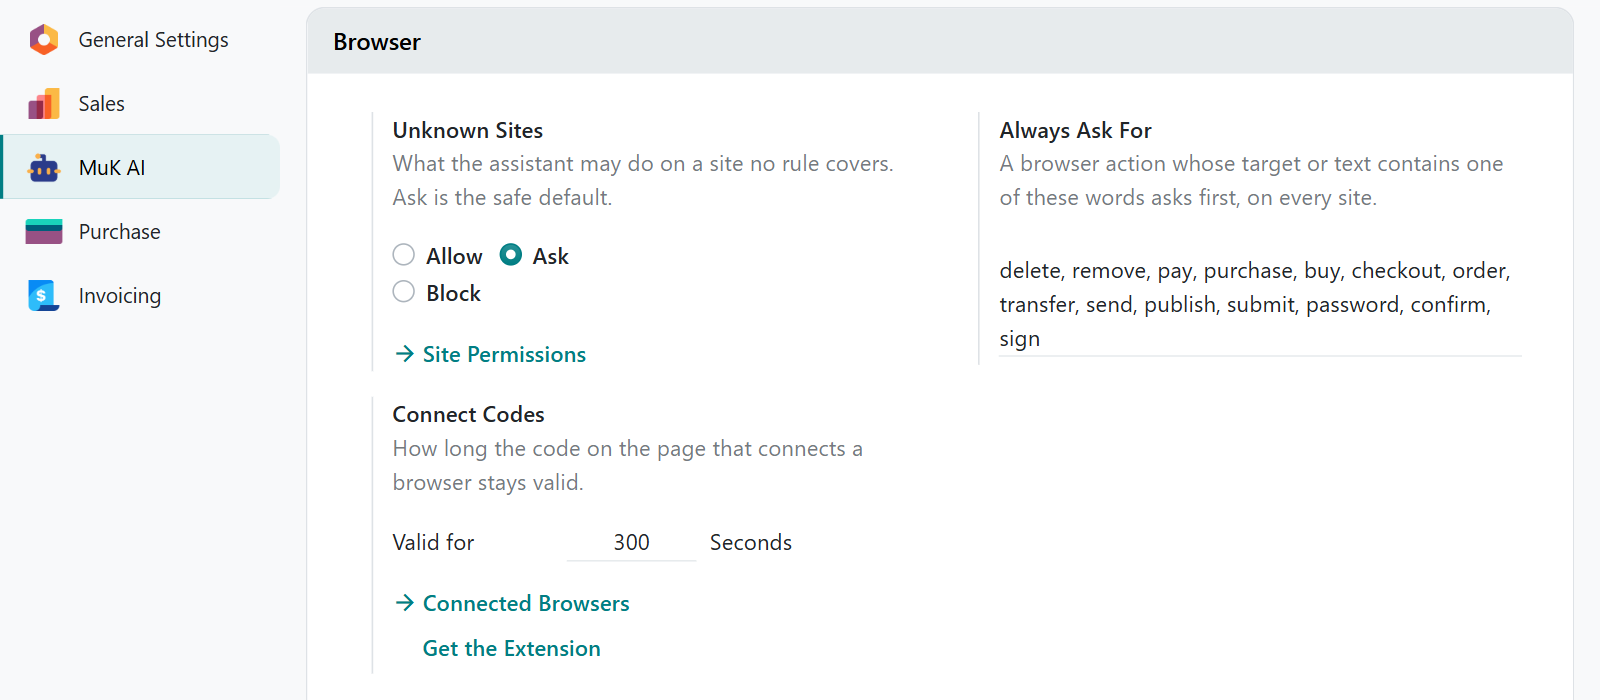
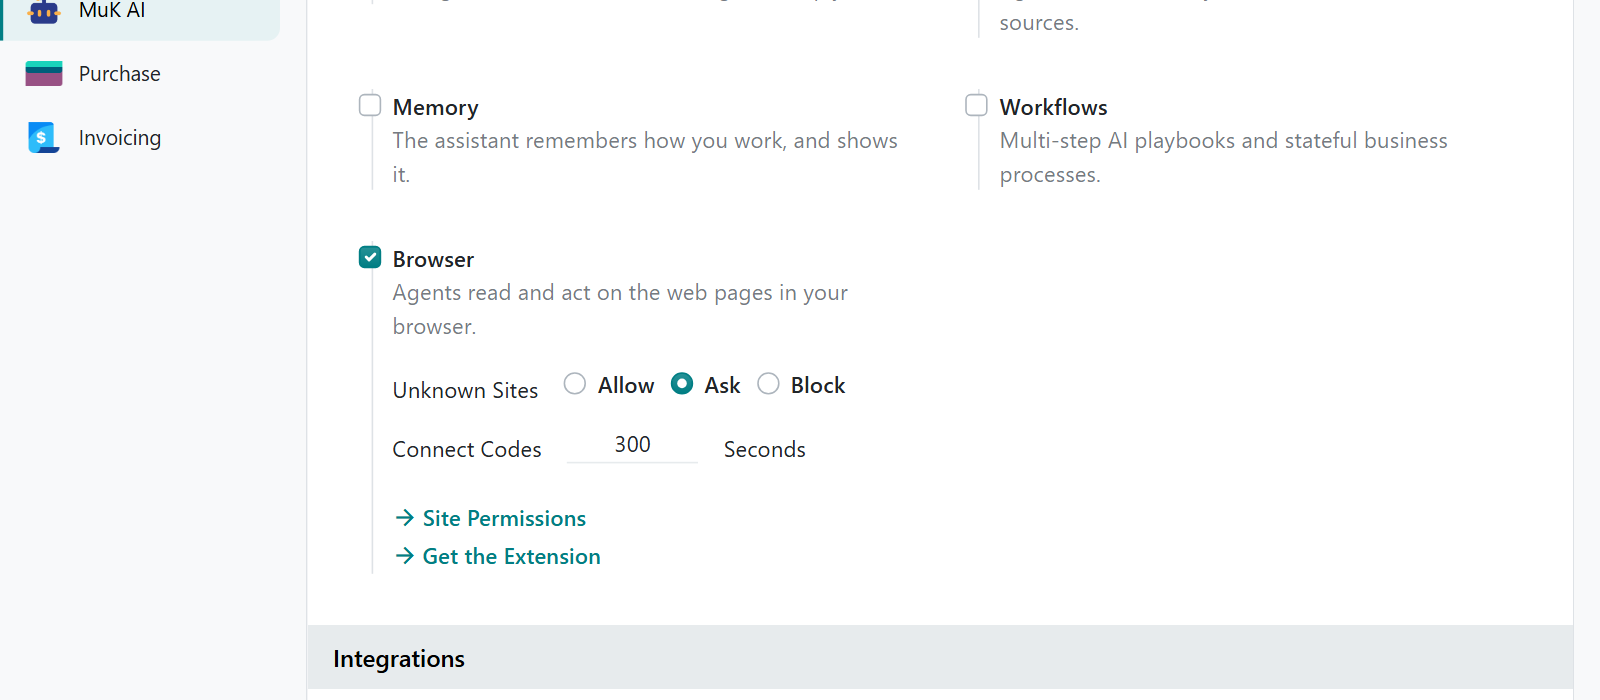
Update muk_ai_browser (634873c6)

diff --git a/muk_ai_browser/static/description/index.html b/muk_ai_browser/static/description/index.html
@@ -164,7 +164,7 @@
 			</div>
 			<div class="col-lg-7 col-12">
 				<div style="border: 1px solid #CFCBC3; border-radius: 8px; background-color: #FFFFFF;">
-					<div style="background-color: #F2F0EC; border-bottom: 1px solid #E3E0DA; border-radius: 7px 7px 0 0; padding: 10px 16px; font-family: ui-monospace, SFMono-Regular, Menlo, Consolas, monospace; font-size: 12px; color: #5C666F;">MuK AI &nbsp;&rsaquo;&nbsp; Browser &nbsp;&rsaquo;&nbsp; Site Permissions</div>
+					<div style="background-color: #F2F0EC; border-bottom: 1px solid #E3E0DA; border-radius: 7px 7px 0 0; padding: 10px 16px; font-family: ui-monospace, SFMono-Regular, Menlo, Consolas, monospace; font-size: 12px; color: #5C666F;">MuK AI &nbsp;&rsaquo;&nbsp; Configuration &nbsp;&rsaquo;&nbsp; Site Permissions</div>
 					<img src="screenshot_sites.png" alt="The Site Permissions list with sites allowed for one user, asked about or blocked for everyone, beside the chat that filled a web order form from an Odoo contact" style="display: block; width: 100%; height: auto; max-width: none; border-radius: 0 0 7px 7px;">
 				</div>
 				<div style="padding-top: 12px; font-size: 13px; line-height: 1.5; color: #5C666F;">The site rules, and in the side panel an order form the agent filled from an Odoo contact and left for the user to submit.</div>
@@ -178,8 +178,8 @@
 		<div class="row g-4 g-lg-5">
 			<div class="col-lg-7 col-12">
 				<div style="border: 1px solid #CFCBC3; border-radius: 8px; background-color: #FFFFFF;">
-					<div style="background-color: #F2F0EC; border-bottom: 1px solid #E3E0DA; border-radius: 7px 7px 0 0; padding: 10px 16px; font-family: ui-monospace, SFMono-Regular, Menlo, Consolas, monospace; font-size: 12px; color: #5C666F;">MuK AI &nbsp;&rsaquo;&nbsp; Settings &nbsp;&rsaquo;&nbsp; Browser</div>
-					<img src="screenshot_settings.png" alt="The Browser settings: Unknown Sites set to Ask, the words that always ask, the connect code lifetime, and the links to the site rules, the connected browsers and the extension" style="display: block; width: 100%; height: auto; max-width: none; border-radius: 0 0 7px 7px;">
+					<div style="background-color: #F2F0EC; border-bottom: 1px solid #E3E0DA; border-radius: 7px 7px 0 0; padding: 10px 16px; font-family: ui-monospace, SFMono-Regular, Menlo, Consolas, monospace; font-size: 12px; color: #5C666F;">MuK AI &nbsp;&rsaquo;&nbsp; Settings &nbsp;&rsaquo;&nbsp; Extensions &nbsp;&rsaquo;&nbsp; Browser</div>
+					<img src="screenshot_settings.png" alt="The Browser extension in the MuK AI settings: Unknown Sites set to Ask, the connect code lifetime, and the links to the site rules and the extension" style="display: block; width: 100%; height: auto; max-width: none; border-radius: 0 0 7px 7px;">
 				</div>
 				<div style="padding-top: 12px; font-size: 13px; line-height: 1.5; color: #5C666F;">Ask is the default for a site without a rule; the words on the right ask first on every site.</div>
 			</div>
@@ -188,7 +188,7 @@
 					<div style="font-family: ui-monospace, SFMono-Regular, Menlo, Consolas, monospace; font-size: 12px; letter-spacing: 0.14em; text-transform: uppercase; color: #33627E; margin-bottom: 12px;">Setup</div>
 					<h2 style="margin: 0 0 14px 0; font-family: -apple-system, BlinkMacSystemFont, 'Segoe UI', Roboto, 'Helvetica Neue', Arial, sans-serif; font-size: clamp(28px, 2.8vw, 36px); letter-spacing: -0.015em; line-height: 1.12; font-weight: 700; text-align: left; color: #13181C;">Connected with one login</h2>
 					<p style="margin: 0 0 14px 0; font-size: 16px; line-height: 1.7; font-weight: 400; text-align: left; color: #3C464E;">Install the extension, enter your Odoo address in its options and click Connect. Log in to Odoo in the tab that opens; it pairs the browser and closes itself.</p>
-					<p style="margin: 0; font-size: 16px; line-height: 1.7; font-weight: 400; text-align: left; color: #3C464E;">The settings hold what happens on a site without a rule, the words that always ask, and how long a connect code stays valid, with links to the site rules, the connected browsers and the extension.</p>
+					<p style="margin: 0; font-size: 16px; line-height: 1.7; font-weight: 400; text-align: left; color: #3C464E;">The settings hold what happens on a site without a rule and how long a connect code stays valid, with links to the site rules and the extension.</p>
 				</div>
 			</div>
 		</div>
@@ -311,7 +311,7 @@
 			<div class="col-lg-6 col-12">
 				<div style="border-top: 1px solid #E3E0DA; padding: 15px 0;">
 				<div style="font-size: 15.5px; font-weight: 600; line-height: 1.3; color: #13181C; margin-bottom: 5px;">Configuration</div>
-				<p style="margin: 0; font-size: 14px; line-height: 1.6; font-weight: 400; text-align: left; color: #3C464E;">Enter the Odoo address in the extension's options and click Connect. Defaults under MuK AI &nbsp;&rsaquo;&nbsp; Settings &nbsp;&rsaquo;&nbsp; Browser, site rules under MuK AI &nbsp;&rsaquo;&nbsp; Browser &nbsp;&rsaquo;&nbsp; Site Permissions.</p>
+				<p style="margin: 0; font-size: 14px; line-height: 1.6; font-weight: 400; text-align: left; color: #3C464E;">Enter the Odoo address in the extension's options and click Connect. Defaults under MuK AI &nbsp;&rsaquo;&nbsp; Settings &nbsp;&rsaquo;&nbsp; Extensions &nbsp;&rsaquo;&nbsp; Browser, site rules under MuK AI &nbsp;&rsaquo;&nbsp; Configuration &nbsp;&rsaquo;&nbsp; Site Permissions.</p>
 				</div>
 			</div>
 			<div class="col-lg-6 col-12">

diff --git a/muk_ai_browser/static/src/embed/chat/chat.js b/muk_ai_browser/static/src/embed/chat/chat.js
@@ -68,6 +68,30 @@ patch(AIChat.prototype, {
     get suggestions() {
         return embedded ? pageSuggestions() : super.suggestions;
     },
+    /**
+     * Start the browser panel on a new chat, or on the latest one while it is empty.
+     */
+    async selectFirst() {
+        if (!embedded) {
+            return super.selectFirst();
+        }
+        const [latest] = await this.chat.orm.search(
+            'muk_ai.session',
+            this.chat.chatDomain,
+            { limit: 1, order: 'create_date DESC' },
+        );
+        const used =
+            !latest ||
+            (await this.chat.orm.searchCount('muk_ai.session', [
+                ['id', '=', latest],
+                ['event_ids', '!=', false],
+            ]));
+        if (used) {
+            await this.newSession();
+        } else {
+            this.select(latest);
+        }
+    },
 });
 
 patch(AIChatPlugin.prototype, {

diff --git a/muk_ai_browser/models/res_config_settings.py b/muk_ai_browser/models/res_config_settings.py
@@ -24,13 +24,6 @@ class ResConfigSettings(models.TransientModel):
         default='ask',
     )
 
-    browser_risky_keywords = fields.Char(
-        string='Browser Risky Keywords',
-        help='Comma-separated words that make a browser action always ask first.',
-        config_parameter='muk_ai_browser.risky_keywords',
-        default=lambda self: self.env['muk_ai.session'].BROWSER_RISKY_KEYWORDS,
-    )
-
     browser_pairing_ttl = fields.Integer(
         string='Browser Pairing Code Lifetime',
         help='Seconds a pairing code stays valid.',

diff --git a/muk_ai_browser/__manifest__.py b/muk_ai_browser/__manifest__.py
@@ -9,7 +9,7 @@
         asked about or blocked per user, sensitive actions always ask, and a
         plan the user approved limits the sites the assistant acts on.
     """,
-    'version': '20.0.1.1.0',
+    'version': '20.0.1.1.1',
     'category': 'Productivity',
     'license': 'LGPL-3',
     'author': 'MuK IT',

diff --git a/muk_ai_browser/doc/index.rst b/muk_ai_browser/doc/index.rst
@@ -33,23 +33,23 @@ Configuration
 The module needs MuK AI with a provider set up, and the `MuK AI Browser
 extension <https://chromewebstore.google.com/detail/fecogbhcchendbojonbojofkiehdacne>`_
 in Chrome 116 or newer, or in Microsoft Edge. The link is also under MuK AI >
-Settings > Browser > Get the Extension. The extension is open source under
-Apache-2.0: https://github.com/muk-it/muk-ai-browser-extension
+Settings > Extensions > Browser > Get the Extension. The extension is open
+source under Apache-2.0: https://github.com/muk-it/muk-ai-browser-extension
 
 Open the extension's options, enter the Odoo address and click Connect. Log in
 to Odoo in the tab that opens; the extension reads a one-time code from the
 page, receives a key that only works for the browser, and the tab closes by
-itself. The page is also under MuK AI > Browser > Connect a Browser. Every
-paired browser is listed under MuK AI > Browser > Connected Browsers, where it
-can be disconnected.
+itself. Every paired browser is listed under MuK AI > Reports > Browsers,
+where it can be disconnected.
 
-Under MuK AI > Settings > Browser, choose what the agent does on a site
-without a rule (Unknown Sites: allow, ask or block), the words that always ask
-(Always Ask For, such as delete, pay or submit), and how long a connect code
-stays valid (Connect Codes). Site rules are kept under MuK AI > Browser > Site
-Permissions, per user or for everyone, as an exact address or a pattern such
-as ``*.example.com``; a rule for everyone that blocks a site wins over any
-user rule.
+Under MuK AI > Settings > Extensions > Browser, choose what the agent does on
+a site without a rule (Unknown Sites: allow, ask or block) and how long a
+connect code stays valid (Connect Codes). The words that always ask are the
+system parameter ``muk_ai_browser.risky_keywords``, a comma-separated list (by
+default delete, pay, submit and the like). Site rules are kept under MuK AI >
+Configuration > Site Permissions, per user or for everyone, as an exact address
+or a pattern such as ``*.example.com``; a rule for everyone that blocks a site
+wins over any user rule.
 
 Usage
 =====

diff --git a/muk_ai_browser/README.md b/muk_ai_browser/README.md
@@ -43,9 +43,9 @@ its log stay in your Odoo.
    address and click **Connect**.
 3. Log in to Odoo in the tab that opens: it pairs the browser and closes
    itself.
-4. Set the default for sites without a rule and the words that always ask
-   under **MuK AI > Settings > Browser**, and the site rules under
-   **MuK AI > Browser > Site Permissions**.
+4. Set what the assistant may do on a site without a rule under
+   **MuK AI > Settings > Extensions > Browser**, and the site rules under
+   **MuK AI > Configuration > Site Permissions**.
 5. Open the side panel on any page, and ask.
 
 ## Support
